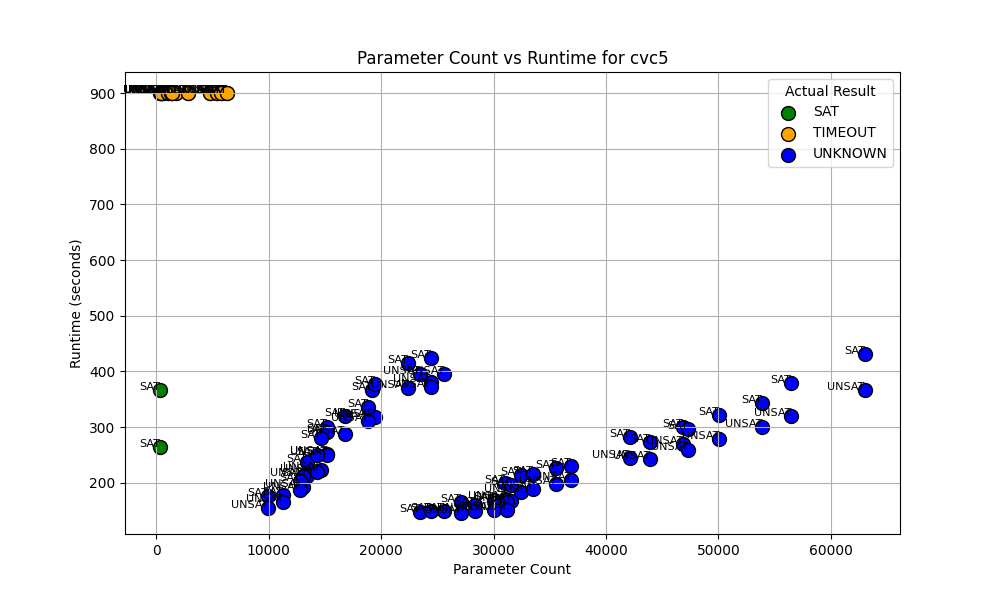
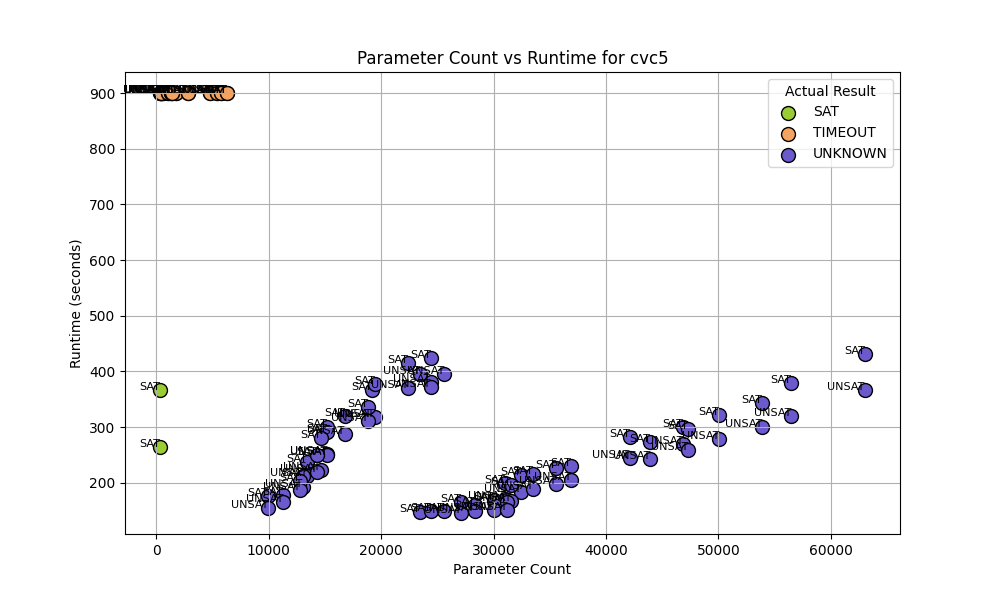
generated graphs

diff --git a/helpers/generate_graphs.py b/helpers/generate_graphs.py
@@ -13,12 +13,12 @@ GRAPHS_DIR = SCRIPT_DIR.parent / "graphs"
 
 # Color mapping for actual results
 RESULT_COLORS = {
-    'SAT': 'green',
-    'UNSAT': 'red',
-    'TIMEOUT': 'orange',
-    'UNKNOWN': 'blue',
-    'VERIFICATION FAILED (SAT)': 'green',
-    'VERIFICATION SUCCESSFUL (UNSAT)': 'red',
+    'SAT': 'yellowgreen',
+    'UNSAT': 'lightcoral',
+    'TIMEOUT': 'sandybrown',
+    'UNKNOWN': 'slateblue',
+    'VERIFICATION FAILED (SAT)': 'yellowgreen',
+    'VERIFICATION SUCCESSFUL (UNSAT)': 'lightcoral',
 }
 
 # Shape mapping for different files/verifiers in comparison plot
@@ -52,7 +52,6 @@ def get_verifier_name(filename: str) -> str:
             name = name_with_extension.split('.')[0]
             return name
     return filename  # Fallback if no prefix matched
-
 
 def read_and_process_data(csv_files, verifier_type=None):
     # Read and process data from CSV files.
@@ -141,7 +140,6 @@ def generate_comparison_plot(data_dict, output_dir, verifier_type):
     plt.close()
     print(f"Saved comparison plot to {output_file}")
 
-    
 def plot_expected_results(data_dict, output_dir, verifier_type, expected_result):
     # Plot graphs for expected SAT or expected UNSAT
     for file_name, df in data_dict.items():
@@ -202,16 +200,12 @@ def plot_runtime_increase(data_dict, output_dir, verifier_type):
         if sorted_df.empty:
             print(f"Skipping plot for {file_name} due to no valid runtime data.")
             continue
-        
         # Add index and cumulative runtime
         sorted_df['Index'] = sorted_df.index
         sorted_df['CumulativeRuntime'] = sorted_df['RuntimeSeconds'].cumsum()
-        
         x = sorted_df['Index'].values
         y = sorted_df['CumulativeRuntime'].values
-        
         plt.figure(figsize=(10, 6))
-        
         if len(sorted_df) < 2:
             print(f"Skipping smoothing for {file_name} due to insufficient data points.")
             # Just plot points if too few for spline
@@ -223,7 +217,6 @@ def plot_runtime_increase(data_dict, output_dir, verifier_type):
             y_smooth = spline(x_smooth)
             plt.plot(x, y, 'o', label='Original Data')  # Original points
             plt.plot(x_smooth, y_smooth, '-', label='Smoothed Curve')  # Smoothed line
-        
         plt.title(f'{verifier_type.upper()} - Cumulative Runtime Increase per Instance Index - {get_verifier_name(file_name)}')
         plt.xlabel('Instance Index (Sorted by Parameter Count)')
         plt.ylabel('Cumulative Runtime (seconds)')
@@ -244,36 +237,29 @@ def plot_combined_results(output_dir):
             continue
         type_data_dict = read_and_process_data(csv_files, verifier_type=v_type)
         all_data_dict.update(type_data_dict)
-    
     if not all_data_dict:
         print("No data available for combined plot.")
         return
-    
     # Generate combined line graph
     plt.figure(figsize=(14, 10))
     colors = plt.cm.tab10(np.linspace(0, 1, len(all_data_dict)))  # Unique colors for each line
     color_idx = 0
-    
     for file_name, df in all_data_dict.items():
-        # Extract verifier name from filename pattern <verifiertype>_*result_*<verifier>.csv
+        # Extract verifier name from filename pattern _*result_*.csv
         # Assuming format like smt_result_z3.csv -> label 'z3'
         if '_result_' in file_name:
             verifier_label = file_name.split('_result_')[1].replace('.csv', '')
         else:
             verifier_label = file_name.replace('.csv', '')  # Fallback
-        
         # Sort by Parameter Count and drop NaN runtimes
         sorted_df = df.dropna(subset=['RuntimeSeconds']).sort_values(by='Parameter Count').reset_index(drop=True)
         if sorted_df.empty:
             continue
-        
         # Add index and cumulative runtime
         sorted_df['Index'] = sorted_df.index
         sorted_df['CumulativeRuntime'] = sorted_df['RuntimeSeconds'].cumsum()
-        
         x = sorted_df['Index'].values
         y = sorted_df['CumulativeRuntime'].values
-        
         if len(sorted_df) < 2:
             plt.plot(x, y, marker='o', linestyle='None', color=colors[color_idx], label=verifier_label)
         else:
@@ -283,9 +269,7 @@ def plot_combined_results(output_dir):
             y_smooth = spline(x_smooth)
             plt.plot(x_smooth, y_smooth, '-', color=colors[color_idx], label=verifier_label)
             plt.plot(x, y, 'o', color=colors[color_idx])  # Original points
-        
         color_idx += 1
-    
     plt.title('Combined Cumulative Runtime Across All Verifiers (smt, sv, vnn)')
     plt.xlabel('Instance Index (Sorted by Parameter Count per Verifier)')
     plt.ylabel('Cumulative Runtime (seconds)')
@@ -297,47 +281,114 @@ def plot_combined_results(output_dir):
     plt.close()
     print(f"Saved combined cumulative plot to {output_file}")
 
+def generate_bar_graph(data_dict, output_dir, verifier_type=None):
+    # Generate bar graph for number of instances per actual result (SAT, UNSAT, UNKNOWN, TIMEOUT)
+    counts = {}
+    for file_name, df in data_dict.items():
+        verifier_name = get_verifier_name(file_name)
+        if verifier_name not in counts:
+            counts[verifier_name] = {'SAT': 0, 'UNSAT': 0, 'UNKNOWN': 0, 'TIMEOUT': 0}
+        if verifier_type == "sv":
+            # For SV, we need to handle the specific result types
+            df['Actual Result'] = df['Actual Result'].replace({
+                'VERIFICATION FAILED (SAT)': 'SAT',
+                'VERIFICATION SUCCESSFUL (UNSAT)': 'UNSAT'
+            })
+        for result in ['SAT', 'UNSAT', 'UNKNOWN', 'TIMEOUT']:
+            count = (df['Actual Result'] == result).sum()
+            counts[verifier_name][result] += count
+
+    if not counts:
+        print("No data available for bar graph.")
+        return
+
+    verifiers = list(counts.keys())
+    sat_counts = [counts[v]['SAT'] for v in verifiers]
+    unsat_counts = [counts[v]['UNSAT'] for v in verifiers]
+    unknown_counts = [counts[v]['UNKNOWN'] for v in verifiers]
+    timeout_counts = [counts[v]['TIMEOUT'] for v in verifiers]
+
+    bar_width = 0.2
+    x = np.arange(len(verifiers))
+
+    plt.figure(figsize=(12, 7))
+    plt.bar(x - 1.5*bar_width, sat_counts, width=bar_width, color=RESULT_COLORS.get('SAT', 'gray'), label='SAT')
+    plt.bar(x - 0.5*bar_width, unsat_counts, width=bar_width, color=RESULT_COLORS.get('UNSAT', 'gray'), label='UNSAT')
+    plt.bar(x + 0.5*bar_width, unknown_counts, width=bar_width, color=RESULT_COLORS.get('UNKNOWN', 'gray'), label='UNKNOWN')
+    plt.bar(x + 1.5*bar_width, timeout_counts, width=bar_width, color=RESULT_COLORS.get('TIMEOUT', 'gray'), label='TIMEOUT')
+
+    plt.xlabel('Verifier')
+    plt.ylabel('Number of Instances')
+    if verifier_type:
+        plt.title(f'{verifier_type.upper()} Verifiers - Number of Instances per Actual Result')
+        output_filename = f"{verifier_type}_bar_graph.png"
+    else:
+        plt.title('Combined Verifiers - Number of Instances per Actual Result')
+        output_filename = "combined_bar_graph.png"
+    plt.xticks(x, verifiers, rotation=45, ha='right')
+    plt.legend()
+    plt.tight_layout()
+
+    output_file = output_dir / output_filename
+    plt.savefig(output_file)
+    plt.close()
+    print(f"Saved bar graph to {output_file}")
+
 def plot_verifier_results_with_extra(verifier_type, combined=False):
     if combined:
         output_dir = setup_directories()  # Use root graphs dir for combined
         print("Generating combined results plot across all verifiers (smt, sv, vnn)")
         plot_combined_results(output_dir)
+        # Generate combined bar graph
+        all_data_dict = {}
+        for v_type in ALL_VERIFIER_TYPES:
+            csv_files = [f for f in os.listdir(RESULTS_DIR) if f.startswith(v_type) and f.endswith('.csv')]
+            if not csv_files:
+                print(f"No CSV files found for {v_type}")
+                continue
+            type_data_dict = read_and_process_data(csv_files, verifier_type=v_type)
+            all_data_dict.update(type_data_dict)
+        generate_bar_graph(all_data_dict, output_dir)
         return  # Skip other operations in combined mode
-    
+
     # Single verifier mode
     csv_files = [f for f in os.listdir(RESULTS_DIR) if f.startswith(verifier_type) and f.endswith('.csv')]
     if not csv_files:
         print(f'No CSV files found for verifier type: {verifier_type}')
         return
+
     data_dict = read_and_process_data(csv_files)
     output_dir = setup_directories(verifier_type)
-    
+
     print("Generating individual plots for all data")
     generate_individual_plots(data_dict, output_dir, verifier_type)
-    
+
     print("Generating comparison plot for all data")
     generate_comparison_plot(data_dict, output_dir, verifier_type)
-    
+
     print(f"Generating expected SAT plots for {verifier_type}")
     plot_expected_results(data_dict, output_dir, verifier_type, 'SAT')
-    
+
     print(f"Generating expected UNSAT plots for {verifier_type}")
     plot_expected_results(data_dict, output_dir, verifier_type, 'UNSAT')
-    
+
     print("Generating runtime increase plots")
     plot_runtime_increase(data_dict, output_dir, verifier_type)
-    
+
     print("Creating summary table for expected and false results")
     summary_df = create_summary_table(data_dict)
     summary_table_path = output_dir / f'{verifier_type}_summary_results.csv'
     summary_df.to_csv(summary_table_path, index=False)
     print(f"Summary table saved to {summary_table_path}")
 
+    print(f"Generating bar graph for {verifier_type}")
+    generate_bar_graph(data_dict, output_dir, verifier_type)
+
 if __name__ == "__main__":
     parser = argparse.ArgumentParser(description='Plot verifier results')
-    parser.add_argument('--verifier', type=str, default='smt', 
+    parser.add_argument('--verifier', type=str, default='smt',
                         help='Verifier type prefix for CSV files (ignored in --combined mode)')
-    parser.add_argument('--combined', action='store_true', 
+    parser.add_argument('--combined', action='store_true',
                         help='Generate combined graph across all verifiers (smt, sv, vnn)')
     args = parser.parse_args()
     plot_verifier_results_with_extra(args.verifier, combined=args.combined)
